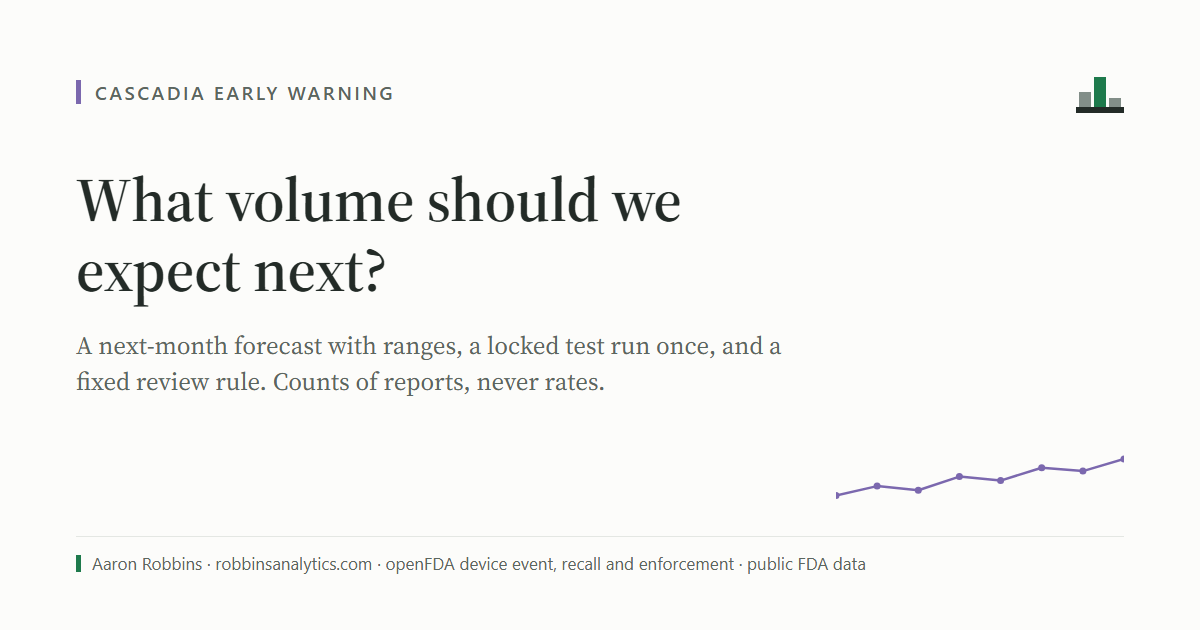
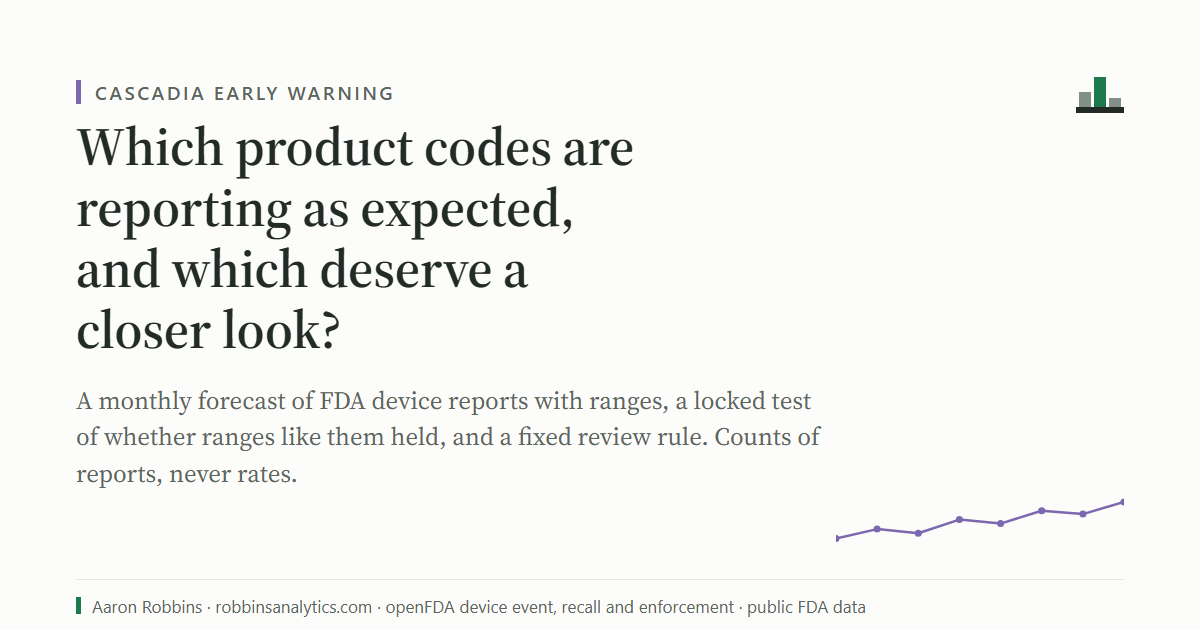
Align the site with Cascadia Early Warning's own case study
The case study now lives in the module's repository, beside the module, at
/cascadia-early-warning/case-study.html. projects/cascadia-early-warning.qmd is
deleted and replaced by a hand-written redirect stub with the case study's own
card, listed under resources: beside the Finance stub. The navbar, the home
card and the family page's builds table link to the new URL; the home card's
second button takes the module's own label, "Open forecast module".

Every Early Warning claim on the site is now one of the approved strings from
the Build 2.1 and 2.2 receipts. The home card leads with the November outlook
and its horizon-three evidence, states the queue as a retrospective, filtered
demonstration (1 against 7) and the total as 649,080 distinct reports. The
family page loses "run once" in three places (the builds table, the design
principle's heading and its body), "649,083 records", "every published cell"
and "a SQL path". The OG card takes the module's current question and drops
"a locked test run once".

The old case-study path was never deployed: 72a1f9c has not left this machine.
The stub is a guard, not a rescue, and its comment says so.

check_references.py: 5 of 5. quarto render: 18 of 18, clean. Hook matrix:
50 of 50. Rendered _site: no "run once", "ran once", "never saw", "649,082",
"649,083", "one episode in 224" or "Class III cardiovascular"; "every
published cell" remains only in Revenue Assurance, Fee Examiner and Matter
Ledger copy, which is about those modules.

diff --git a/projects/cascadia-early-warning.html b/projects/cascadia-early-warning.html
@@ -1,0 +1,64 @@
+<!doctype html>
+<!--
+  Redirect stub for the Cascadia Early Warning case study's old path.
+
+  The case study moved out of this site and into the module's own repository,
+  where it is published beside the module at /cascadia-early-warning/. This
+  path was committed to this site before the move but never deployed, so the
+  stub guards against a link drafted in that window rather than rescuing one
+  already in the wild. Hand-written rather than a Quarto
+  `aliases:` entry, for the same reason as the Cascadia Finance stub beside it. The alias emits a page titled "Redirect" with no
+  social metadata, and a scraper stops at the redirect page and never follows
+  it, so the card has to live here.
+
+  projects/cascadia-early-warning.qmd is deleted, not kept with its body
+  removed — a render input at this path would regenerate this file and
+  overwrite it. And because this file is not a render input, it only reaches
+  _site via the `resources:` list in _quarto.yml. Both halves are load-bearing.
+
+  og:description is the case study's own meta description; og:image is the
+  site's Early Warning card, which the case study also uses; og:url points at
+  the new path.
+-->
+<html lang="en">
+<head>
+<meta charset="utf-8">
+<meta name="viewport" content="width=device-width, initial-scale=1">
+<title>Moved — Cascadia Early Warning</title>
+<link rel="canonical" href="https://www.robbinsanalytics.com/cascadia-early-warning/case-study.html">
+<meta http-equiv="refresh" content="0; url=https://www.robbinsanalytics.com/cascadia-early-warning/case-study.html">
+<meta property="og:type" content="website">
+<meta property="og:title" content="Cascadia Early Warning – Robbins Analytics">
+<meta property="og:description" content="Cascadia Early Warning forecasts monthly FDA device-report volume for seven product codes, compares it with what arrived and applies a fixed review rule; the retrospective results show where the method holds up. Counts of reports, not rates.">
+<meta property="og:image" content="https://www.robbinsanalytics.com/assets/thumb-early-warning.png">
+<meta property="og:url" content="https://www.robbinsanalytics.com/cascadia-early-warning/case-study.html">
+<meta name="twitter:card" content="summary_large_image">
+<meta name="twitter:image" content="https://www.robbinsanalytics.com/assets/thumb-early-warning.png">
+<style>
+  :root { color-scheme: light dark; }
+  body {
+    margin: 0; min-height: 100vh; display: grid; place-items: center;
+    padding: 2rem; text-align: center;
+    font: 16px/1.6 -apple-system, BlinkMacSystemFont, "Segoe UI", Roboto, sans-serif;
+    background: #fff; color: #1d2b25;
+  }
+  h1 { font-size: 1.25rem; margin: 0 0 .5rem; }
+  p { margin: .5rem 0; }
+  a { color: #2f6f4f; }
+  .note { color: #6b7770; font-size: .875rem; }
+  @media (prefers-color-scheme: dark) {
+    body { background: #14201a; color: #e8efea; }
+    a { color: #8fd3ae; }
+    .note { color: #93a49a; }
+  }
+</style>
+</head>
+<body>
+<main>
+  <h1>This page has moved</h1>
+  <p>The Cascadia Early Warning case study now lives beside the module it describes.</p>
+  <p><a href="https://www.robbinsanalytics.com/cascadia-early-warning/case-study.html">www.robbinsanalytics.com/cascadia-early-warning/case-study.html</a></p>
+  <p class="note">Redirecting automatically…</p>
+</main>
+</body>
+</html>

diff --git a/tools/build_thumbs.py b/tools/build_thumbs.py
@@ -61,8 +61,8 @@ MODULES = [
     # Lupine's third tenant. Matter Ledger sits two cards away in the Featured
     # grid and Pharmacy below it, so no two Lupine cards meet. "line" because
     # the lead chart is a count series with a forecast band, not a bar form.
-    dict(slug="early-warning", data="openFDA device event, recall and enforcement · public FDA data", kicker="Cascadia Early Warning", title="What volume should we expect next?",
-         line="A next-month forecast with ranges, a locked test run once, and a fixed review rule. Counts of reports, never rates.",
+    dict(slug="early-warning", data="openFDA device event, recall and enforcement · public FDA data", kicker="Cascadia Early Warning", title="Which product codes are reporting as expected, and which deserve a closer look?",
+         line="A monthly forecast of FDA device reports with ranges, a locked test of whether ranges like them held, and a fixed review rule. Counts of reports, never rates.",
          accent="lupine", motif="line"),
     # Slot 3 (madrona, the alert hue) — the module's finding is a cost the
     # service metrics do not measure. Staffing is the slot's only co-tenant and
